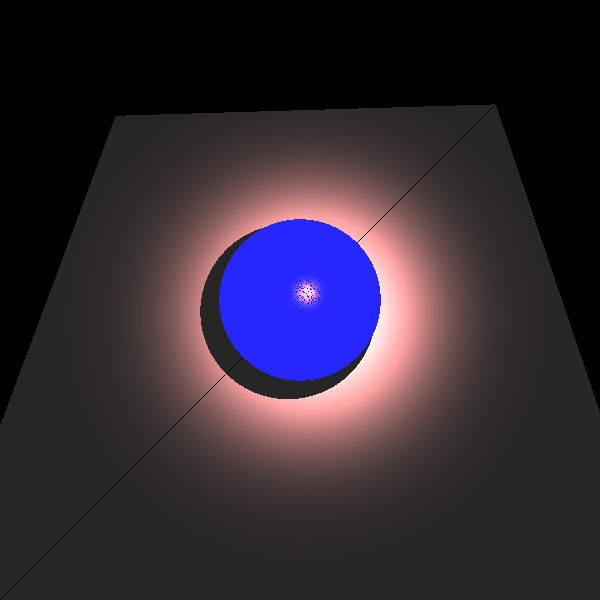
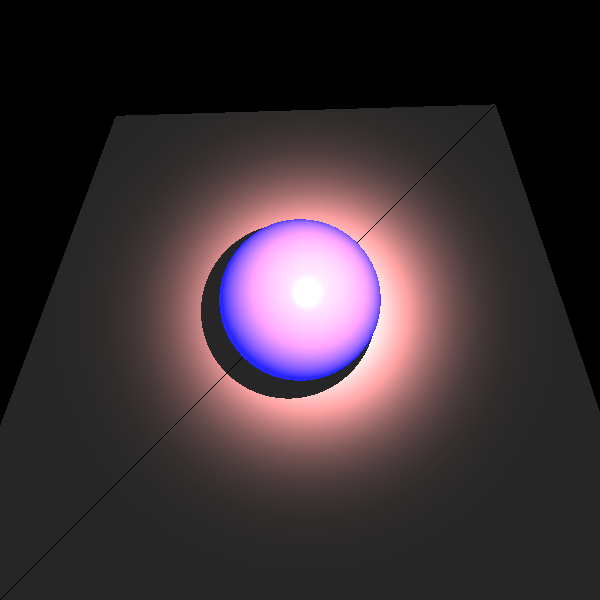
version7 part 1

Changed region(s): [[0.36, 0.36, 0.66, 0.63]]

diff --git a/unittests/elements/ShadowTests.java b/unittests/elements/ShadowTests.java
@@ -60,7 +60,7 @@ public class ShadowTests {
                         .setMaterial(new Material().setkS(0.8).setnShininess(60)), //
                 new Sphere(new Point3D(0, 0, -115),30) //
                         .setEmission(new Color(java.awt.Color.BLUE)) //
-                        .setMaterial(new Material().setkS(0.5).setkS(0.5).setnShininess(30)) //
+                        .setMaterial(new Material().setkD(0.3).setkS(0.5).setnShininess(30)) //
         );
         scene._lights.add( //
                 new SpotLight(new Vector(-1, -1, -4),
